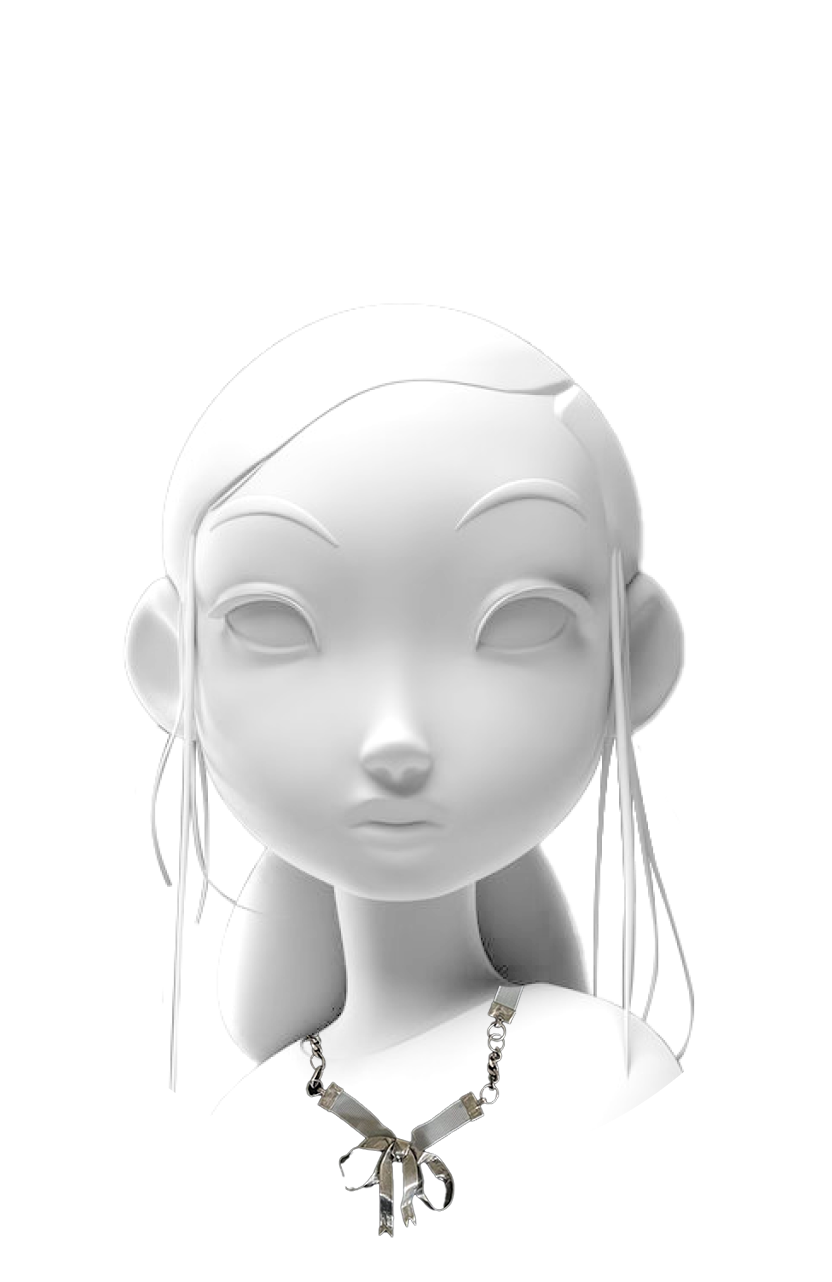
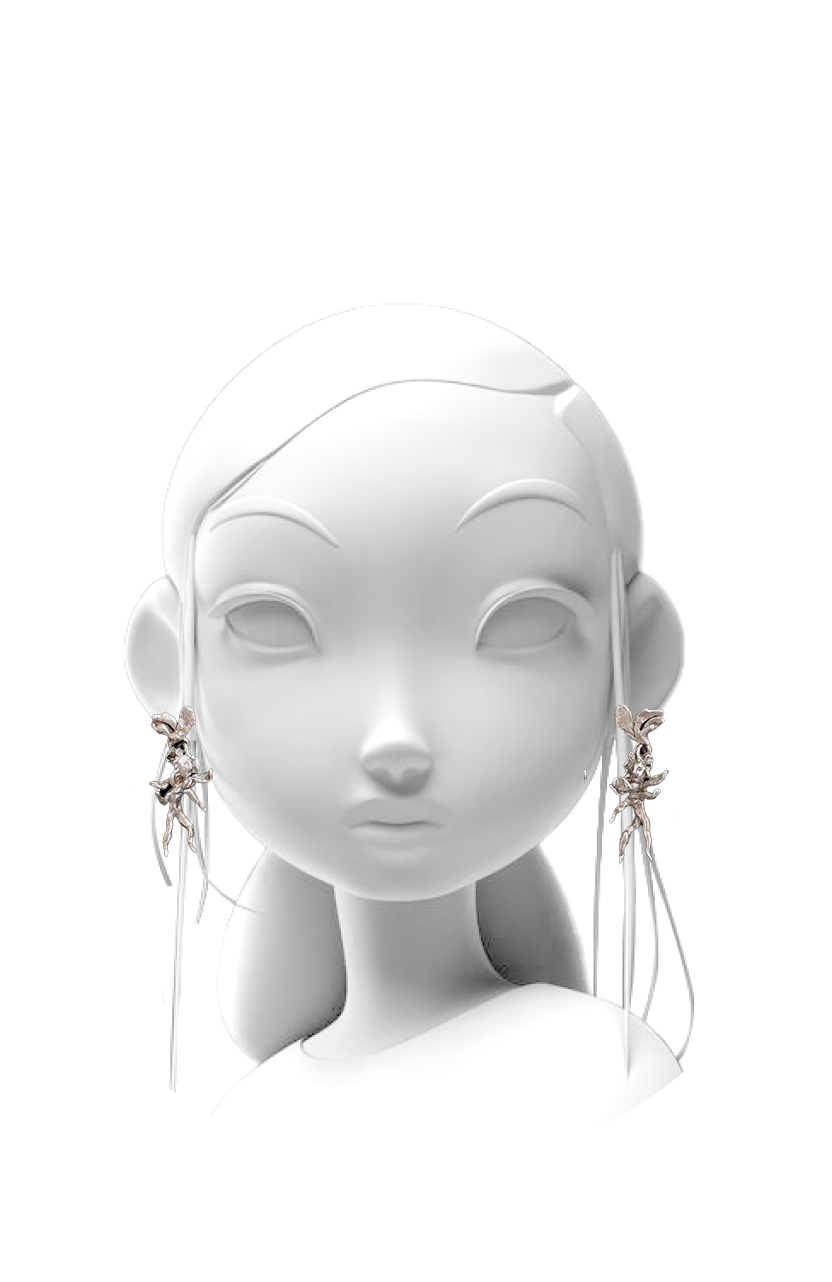
correcciones desktop jquery

Changed region(s): [[0.375, 0.7488, 0.625, 0.9672], [0.7188, 0.5304, 0.8125, 0.6552], [0.1875, 0.5304, 0.25, 0.6552]]

diff --git a/js/script.js b/js/script.js
@@ -29,7 +29,7 @@ $(document).ready(function(){
     });
 
     $("#elene2").click(function(){
-        $(".cambio1").attr("src","img/ELENE/collarcorazon.pngg")
+        $(".cambio1").attr("src","img/ELENE/collarcorazon.png")
     });
 
     $("#elene3").click(function(){
@@ -37,7 +37,7 @@ $(document).ready(function(){
     });
 
     $("#elene4").click(function(){
-        $(".cambio1").attr("src","img/ELENE/collar lazo.png")
+        $(".cambio1").attr("src","img/ELENE/collarlazo.png")
     });
 
     $("#elene5").click(function(){
@@ -52,7 +52,7 @@ $(document).ready(function(){
     // LYRAAAAA LYRA LYRA
 
     $("#lyra1").click(function(){
-        $(".cambio2").attr("src","img/LYRa/lyra1.png")
+        $(".cambio2").attr("src","img/LYRa/lyra6.png")
     });
 
     $("#lyra2").click(function(){
